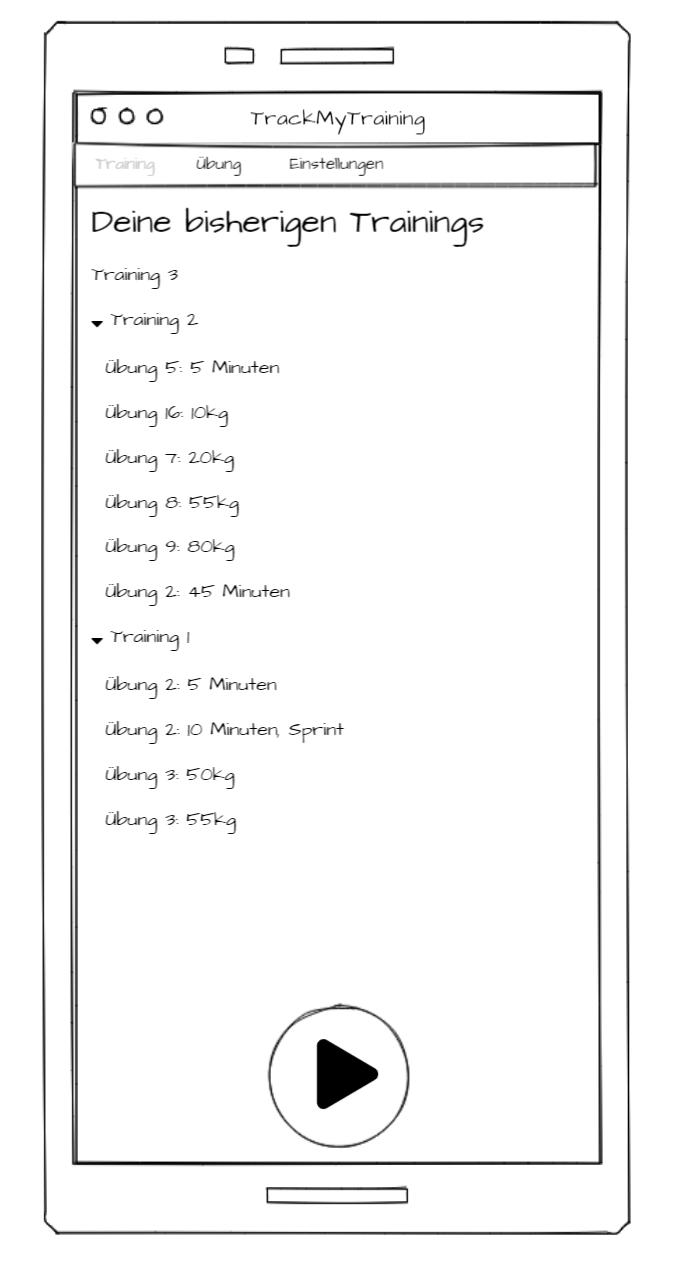
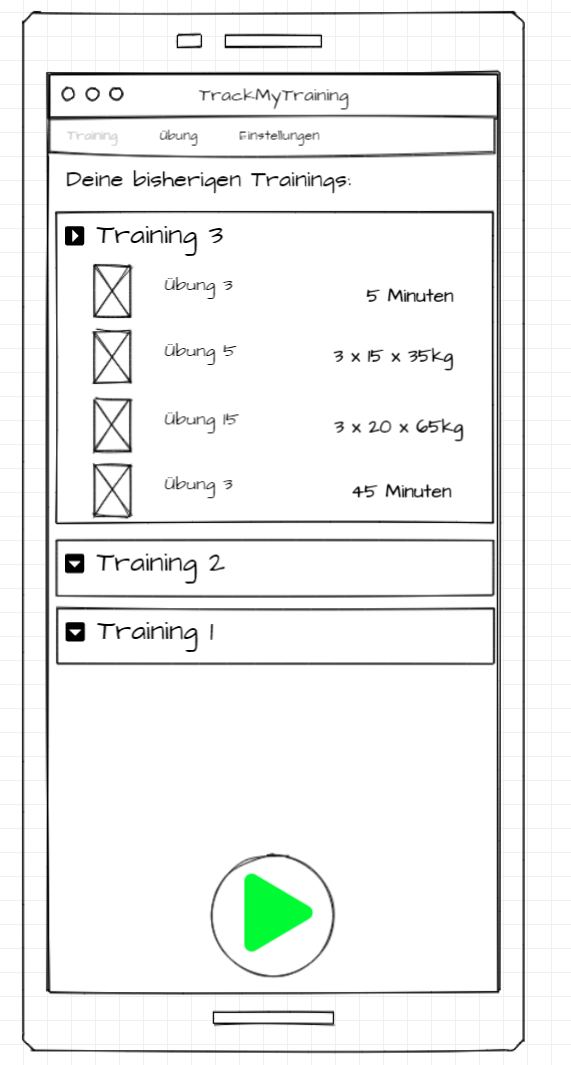
Wireframes Desktop erstellt. Änderungen am Design vom Trainingsbildschirm vorgenommen. Stärker ausformuliert. Grammatik und Satzbau drastisch korrigiert.
ORM SQL Tabellen hinzugefügt und SQL Statements eingefügt.

Unterschied zwischen Datenbank und Datenstrukturen!

Route "GET /users/:id" in "GET /login" umbenannt und abstrahiert ohne id, denn das kann man vorher ja gar nicht wissen.

Syntax im javascript ausgebessert. Es gibt kein long, sondern nur Number. (Doofes Überbleibsel von mir aus Java)

Routen für "alle Übungen oder Trainings" entfernt. Das widerspricht jeglicher Security, könnte aber praktisch sein für die ersten Versuche alles zum Laufen zu kriegen.

Aufwandsschätzung begonnen zu füllen mit passenden Beschreibungen.

diff --git a/README.md b/README.md
@@ -10,7 +10,7 @@ Philipp.Schmitt@hs-worms.de
 ---
 
 ## Abstract
-Entwicklung einer Plattform zur persönlichen Trainingsentwicklung
+Entwicklung einer Plattform zum Nachverfolgen der persönlichen Trainingsentwicklung
 
 ### Motivation
 Ich trainiere regelmäßig in einem Sportstudio und verfolge meinen persönlichen Trainingsfortschritt bisher - wie üblich - auf Papier in tabellarischer Form.
@@ -28,8 +28,6 @@ Dies möchte ich für mich (und für andere Nutzer) lösen, indem ich eine entsp
     - Übung zum Training hinzufügen.
     - Ergebnis zu einer Übung hinzufügen.
     - Ergebnis zu einer Übung bearbeiten.
-    - Ergebnis zu einer Übung löschen.
-    - Übung aus einem Training entfernen.
     - Training bearbeiten.
     - Training löschen.
     
@@ -40,37 +38,31 @@ Dies möchte ich für mich (und für andere Nutzer) lösen, indem ich eine entsp
     - Die Anwendung soll selbsterklärend sein.
  
 ## Client
-
 Die Anwendung besteht aus zwei essentiellen Teilen:
 1. Übungsverwaltung
 2. Trainingsverwaltung
 
 ### Übungsverwaltung
 Die Übungsverwaltung ist die Übersichtseite der Übungen. Übungen stellen den Hauptteil der Anwendung dar.
-Eine Übungsinstanz kann wie folgt aussehen:
-```javascript
-{
-  id: long,
-  name: String,
-  beschreibung: String
-}
-```
+Eine Übung besteht aus einem Namen und einer Beschreibung.
 Optional soll zu einer Übung zusätzlich ein Bild abgespeichert werden können.
 
-Die Übersichtsseite stellt eine Liste aller vom Nutzer hinzugefügten Übungen dar. Ein Button in der rechten unteren Ecke soll zum Hinzufügen von Übungen dienen.
+Die Übungsseite stellt eine Liste aller vom Nutzer hinzugefügten Übungen dar. Ein Button in der rechten unteren Ecke soll zum Hinzufügen von Übungen dienen.
 
 ### Trainingsverwaltung
 
-Die Trainingsverwaltung ist die Übersichtseite der abgeschlossenen Trainings. Hier können alte Trainingseinheiten nachgesehen werden.
-Dies erfolgt - wie die Übungsverwaltung - in Listenform.
+Die Trainingsverwaltung ist die Übersichtseite der abgeschlossenen Trainings. Hier können alle Trainingseinheiten nachgesehen werden.
+Dies soll in Listenform geschehen. Die einzelnen Trainings sind untereinander gelistet und können aufgeklappt werden, um zu sehen welche Übungen abgeschlossen wurden.
 Ein großer "Training starten"-Button startet ein neues Training.
-Einem Training kann nun nach und nach eine Übung aus einer Dropdownliste seiner bereits erstellten Übungen inklusive entsprechendem Trainingsergebnisse hinzugefügt werden.
-Das Training kann nach mindestens einem Trainingssatz einer einzelnen Übung mit dem Drücken eines "Training beenden" beendet werden und wird daraufhin abgespeichert.
+Einem Training kann nun nach und nach eine Übung aus seiner bereits erstellten Übungen inklusive entsprechendem Trainingsergebnisse hinzugefügt werden.
+Das Training kann nach mindestens einem Trainingssatz einer einzelnen Übung mit dem Drücken eines "Training beenden"-Buttons beendet werden und wird daraufhin abgespeichert.
 
-Ein Training besteht also aus einer Liste an Übungen mitsamt Ihren Ergebnissen. Ergebnisse sollen als Text eingegeben werden.
+Ein Training besteht also aus einer Liste an Trainingsübungen, Übungen mit einem Ergebnis. Ergebnisse sollen als Text eingegeben werden.
 
 ## Design
 Ich möchte das Projekt hübsch gestalten und mich mit den neuesten Gestaltungsmöglichkeiten und Komponenten der Webentwicklung auseinander setzen.
+Das Design soll mit modernen Mitteln Gestalten und dabei trotzdem möglichst schlicht bleiben, weshalb ich auf aufwändige Animationen verzichte.
+Die Anwendung soll selbsterklärend sein und der Nutzer soll die Möglichkeiten selbstständig erkunden, weshalb ich moderne Bausteine wie einen FloatingActionButton setzen möchte.
 
 https://material.io/develop/web/ bietet umfangreiche Komponenten für die Gestaltung moderner Nutzeroberflächen. Diese Plattform möchte ich nutzen, um moderne Webentwicklungskomponenten in mein Projekt einfließen zu lassen.
 
@@ -79,31 +71,30 @@ Eine Übung kann sehr schön mit sogenannten "Cards" dargestellt werden.
 
 Cards können in einem Grid gut angeordnet werden und eignen sich damit hervorragend zur Darstellung der Übungsverwaltung.
 
-Des Weiteren soll ein "FloatingActionButton" das zentrale funktionale Element der Anwendung sein. Er soll in der Übungsverwaltung dazu dienen eine Übung hinzuzufügen, während er in der Trainingsverwaltung dazu dienen soll ein neues Training zu starten.
-Hierfür möchte ich Icons aus der Font-Awesome-Familie nutzen:
+Des Weiteren soll ein "FloatingActionButton" das zentrale funktionale Element der Anwendung sein. Er soll in der Übungsverwaltung dazu dienen eine Übung hinzuzufügen, während er in der Trainingsverwaltung dazu dienen soll ein neues Training zu erstellen.
+Hierfür möchte ich Icons aus der Font-Awesome-Familie nutzen: [Font Awesome Icons](https://fontawesome.com/icons/)
 
-- [Font Awesome Icon Plus](https://fontawesome.com/icons/plus-circle?style=solid)
-- [Font Awesome Icon Play](https://fontawesome.com/icons/play-circle?style=solid)
+
 
 ## Mobil
 Die mobile Version startet mit dem Login-Bildschirm.
 
 ![TrackMyTraining Mobile Login](./wireframes/mobile/TrackMyTraining%20Login.PNG)
 
-Nach dem erfolgreichen Login gelangt man auf die Trainings-Übersichtsseite. Es werden die absolvierten Trainings dort angezeigt.
+Nach dem erfolgreichen Login gelangt man auf die Trainings-Übersichtsseite. Es werden dort die absolvierten Trainings angezeigt.
 
 ![TrackMyTraining Mobile Training](./wireframes/mobile/TrackMyTraining%20Training.PNG)
 
-Beim Klicken in der Navigation auf Übungen gelangt man in die Übungsübersicht. Hier werden alle Übungen in einem zweispaltigen Grid untereinander angezeigt.
+Beim Klicken auf "Übungen" in der Navigationsleiste gelangt man in die Übungsübersicht. Hier werden alle Übungen in einem zweispaltigen Grid untereinander angezeigt.
 Ein großer FloatingActionButton in der Mitte am unteren Ende des Screens dient zum Hinzufügen einer neuen Übung.
 
 ![TrackMyTraining Mobile Übung](./wireframes/mobile/TrackMyTraining%20Übungen.PNG)
 
-Nach Klick auf den FloatingActionButton gelangt man auf diesen Übung-Hinzufügen-Screen.
+Nach einem Klick auf den FloatingActionButton gelangt man auf diesen Übung-Hinzufügen-Screen.
 
 ![TrackMyTraining Mobile Übung Hinzufügen](./wireframes/mobile/TrackMyTraining%20Neue%20Übung.PNG)
 
-Hat man alle erwünschten Übungen in seinem Konto hinterlegt, so kann man nun ein Training starten.
+Hat man alle erwünschten Übungen erstellt, so kann man nun ein Training starten.
 Dazu klickt man auf dem Training-Bildschirm auf den großen FloatingActionButton mit dem "Start/Play"-Symbol und gelangt zum folgenden Screen:
 
 ![TrackMyTraining Mobile Training Hinzufügen Default](./wireframes/mobile/TrackMyTraining%20Neues%20Training%20Default.PNG)
@@ -116,12 +107,26 @@ Wenn man fertig mit dem Training ist, beendet man das Training durch Drücken de
 Daraufhin gelangt man wieder zum Trainings-Ausgangs-Bildschirm und das abgeschlossene Training wurde eingefügt.
 
 ## Desktop
+Die Desktop Version ist eine modifizierte und angepasste Mobile-Version.
 
+Die Elemente werden neu angeordnet, sodass sie auf dem größeren Bildschirm besser Platz finden.
 ### Login
+
+![TrackMyTraining Desktop Start / Login](./wireframes/desktop/TrackMyTraining%20Login.PNG)
 
 ### Training
 
+![TrackMyTraining Desktop Training](./wireframes/desktop/TrackMyTraining%20Training.PNG)
+
+![TrackMyTraining Desktop Training Hinzufügen Leer](./wireframes/desktop/TrackMyTraining%20Neues%20Training.PNG)
+
+![TrackMyTraining Desktop Training Hinzufügen Gefüllte Liste](./wireframes/desktop/TrackMyTraining%20Neues%20Training%20Liste.PNG)
+
 ### Übungen
+
+![TrackMyTraining Desktop Übungen](./wireframes/desktop/TrackMyTraining%20Übung.PNG)
+
+![TrackMyTraining Desktop Übung Hinzufügen](./wireframes/desktop/TrackMyTraining%20Neue%20Übung.PNG)
 
 ## Server
 
@@ -130,78 +135,104 @@ Hierzu definiere ich mir nach dem REST-API-Prinzip verschiedene Routen, welche d
 Die Daten bauen grundsätzlich aufeinander auf:
 
 Nutzer und Übungen stellen den Grundbaustein der Anwendung dar und sind miteinander verknüpft.
-Ein Training enthält eine Liste von Übungen, jeweils verknüpft mit einem Ergebnis.
+Ein Training enthält eine Liste von Trainingsübungen. Trainingsübungen sind Übungen mit einem Ergebnis und werden dargestellt durch die Referenz der Übungs-Id und einem Ergebnis.
 
-Zur Authentifizerung möchte ich [Passport.js](http://www.passportjs.org/) mit lokaler Strategy nutzen, d.h. eine Anmeldung findet mittels Nutzername und Passwort statt.
-Ich verzichte vorerst auf Salting und Hashing.
+Zur Authentifizerung möchte ich [Passport.js](http://www.passportjs.org/) mit lokaler Strategy nutzen inklusive Sessions, d.h. eine Anmeldung findet mittels Nutzername und Passwort statt und es wird ein Session Cookie erstellt, der mich die Authentifizierung für Anfragen checken lässt.
 
 ## ORM
 ![TrackMyTraining UML Diagramm](./orm/TrackMyTraining%20UML.PNG)
 
+Es werden folgende Tabellen benötigt, um das obige Diagramm darzustellen:
+1. Users
+```SQL
+CREATE TABLE IF NOT EXISTS users(
+    user_id INTEGER PRIMARY KEY AUTOINCREMENT,
+    name TEXT NOT NULL UNIQUE,
+    email TEXT NOT NULL UNIQUE,
+    password TEXT NOT NULL    
+);
+```
+2. Übungen
+```SQL
+CREATE TABLE IF NOT EXISTS übungen(
+    übung_id INTEGER PRIMARY KEY AUTOINCREMENT,
+    name TEXT NOT NULL,
+    beschreibung TEXT,
+    creator INTEGER,
+    FOREIGN KEY (creator) REFERENCES users (user_id) 
+);
+```
+3. Training
+```SQL
+CREATE TABLE IF NOT EXISTS training(
+    training_id INTEGER PRIMARY KEY AUTOINCREMENT,
+    user_id INTEGER,
+    FOREIGN KEY (user_id) REFERENCES users (user_id)  
+);
+```
+4. TrainingsÜbungen
+```SQL
+CREATE TABLE IF NOT EXISTS trainingsübungen(
+    training_id INTEGER,
+    übung_id INTEGER,
+    ergebnis TEXT,
+    PRIMARY KEY (training_id, übung_id),
+    FOREIGN KEY (training_id) REFERENCES training (training_id),
+    ON DELETE CASCADE ON UPDATE NO ACTION,
+    FOREIGN KEY (übung_id) REFERENCES übungen (übung_id) 
+    ON DELETE CASCADE ON UPDATE NO ACTION
+);
+```
 
 ## API-Beschreibung
+Alle Routen außer der Login-Route benötigen eine Authentifizierung, welche aber durch eben Jene erlangt werden kann.
 
-### `GET /users/:id`
+### `GET /login`
 **Get**
-liefert Nutzerobjekt anhand der Route zurück
-- **RESULT** `{id: long, name: String, email: String, password: String`
+Route nimmt Nutzerdaten entgegen und liefert Nutzerobjekt zurück, wenn die Daten korrekt sind
+- **INPUT**  `{name: String,password: String}`
+- **RESULT** `{id: Number, name: String, email: String, password: String}` + Session Cookie?!
 
 ### `POST /users`
 **Create** 
 Erstellt einen neuen Nutzer
 Route nimmt Nutzerdaten entgegen und liefert Nutzerobjekt mit id zurück
 - **INPUT**  `{name: String, email: String, password: String}`
-- **RESULT** `{id: long, name: String, email: String, password: String`
+- **RESULT** `{id: Number, name: String, email: String, password: String`
 
 ### `PUT /users/:id`
 **Update**
 Aktualisiert den Nutzer anhand der Route
 Route nimmt aktualisiertes Nutzerobjekt entgegen und liefert aktualisiertes Nutzerobjekt zurück
-- **INPUT**  `{id: long, name_new: String, email_new: String, password_new: String}`
-- **RESULT** `{id: long, name_new: String, email_new: String, password_new: String`
+- **INPUT**  `{id: Number, name_new: String, email_new: String, password_new: String}`
+- **RESULT** `{id: Number, name_new: String, email_new: String, password_new: String`
 
 ### `DELETE /users/:id`
 **Delete** 
 Löscht den Nutzer anhand der Route sowie alle mit ihm verknüpften Datensätze
 
-### `GET /übungen`
-**Get List**
-liefert Liste aller Übungen zurück
-- **RESULT** `{id: long, name: String, beschreibung: String},{id: long, name: String, beschreibung: String}, ...`
-
 ### `GET /übungen/:id`
 **Get**
 liefert Übungsobjekt anhand der Route zurück
-- **RESULT** `{id: long, name: String, beschreibung: String}`
+- **RESULT** `{id: Number, name: String, beschreibung: String}`
 
 ### `POST /übungen`
 **Create** 
 Erstellt eine neue Übung.
 Route nimmt Übungsdaten entgegen und liefert Übungsobjekt mit id zurück
 - **INPUT**  `{name: String, beschreibung: String}`
-- **RESULT** `{id: long, name: String, beschreibung: String`
+- **RESULT** `{id: Number, name: String, beschreibung: String}`
 
 ### `DELETE /übungen/:id`
 **Delete**
 Löscht die Übung anhand der Route
 
-### `GET /training`
-**Get List**
-liefert Liste aller Trainings zurück
-
 ### `POST /training`
 **Create**
 Erstellt ein neues Training
 liefert Trainingsobjekt zurück
-- **INPUT**  `{[{übung_id: long, ergebnis: String},{übung_id: long, ergebnis: String},...]}`
-- **RESULT** `{training_id: long, übungen: [{übung_id: long, ergebnis: String},{übung_id : long, ergebnis: String},...]`
-
-### `PUT /training/:id`
-**Update**
-aktualisiert ein Training anhand der Route
-Route nimmt aktualisierte Trainingsdaten entgegen und liefert aktualisiertes Trainingsobjekt zurück
-- **INPUT** `{training_id: long, übungen: [{übung_id_new: long, ergebnis_new: String},{übung_id_old : long, ergebnis_new: String},...]}`
-- **RESULT** `{training_id: long, übungen: [{übung_id_new: long, ergebnis_new: String},{übung_id_old : long, ergebnis_new: String},...]}`
+- **INPUT**  `{[{übung_id: Number, ergebnis: String},{übung_id: Number, ergebnis: String},...]}`
+- **RESULT** `{training_id: Number, übungen: [{übung_id: Number, ergebnis: String},{übung_id : Number, ergebnis: String},...]`
 
 ### `GET /übungen?user_id=x`
 **Get List**
@@ -234,7 +265,7 @@ liefert Liste an Trainings, die vom Nutzer mit der id x erstellt wurden
 ### User
 ```javascript
 {
-    id: long,
+    id: Number,
     name: String,
     email: String,
     password: String
@@ -244,23 +275,32 @@ liefert Liste an Trainings, die vom Nutzer mit der id x erstellt wurden
 ### Übung
 ```javascript
 {
-    id: long,
+    id: Number,
     name: String,
     beschreibung: String
+}
+```
+
+### Trainingsübungen
+
+```javascript
+{
+    übung_id: Number,
+    ergebnis: String
 }
 ```
 
 ### Training
 ```javascript
 {
-    id: long,
+    id: Number,
     übungen: {
         {
-            übung_id: long,
+            übung_id: Number,
             ergebnis: String
         },
         {
-            übung_id: long,
+            übung_id: Number,
             ergebnis: String
         },
         ...
@@ -281,26 +321,39 @@ liefert Liste an Trainings, die vom Nutzer mit der id x erstellt wurden
 | Client            |    0,5        |
 | Design inklusive Recherche auf Material.io                     |    1        |
 | WireFrames Mobile erstellt und WorkFlow / Funktionen beschrieben         |     5       |
-| Wireframes Desktop erstellt und WorkFlow / Funktionen beschrieben                       |            |
+| Wireframes Desktop erstellt und WorkFlow / Funktionen beschrieben                       |       4    |
 | Backend Endpunkte / API - Beschreibung / Daten   | 4          |
-| ORM                                      |     1       |
-| Verfassen des Projektvorschlags          |            |
-| **Summe**                                |  **13,5**    |
+| ORM                                      |     2       |
+| Verfassen des Projektvorschlags          |      3      |
+| **Summe**                                |  ****    |
 
 ### Client
 #### Implementierung
 
 | Aufgabe                                  | Zeit in Std |
 |------------------------------------------|------------:|
-| HTML-Grundgerüst Lorem                   |            |
-| HTML-Grundgerüst Lorem2                  |            |
-| HTML-Grundgerüst Lorem3                  |            |
+| HTML-Grundgerüst Allgemein               |             |
+| HTML-Grundgerüst Training                |            |
+| HTML-Grundgerüst Training hinzufügen             |            |
+| HTML-Grundgerüst Übungen              |            |
+| HTML-Grundgerüst Übung hinzufügen              |            |
+| HTML-Grundgerüst Einstellungen             |            |
 | SCSS-Styling Breakpoint small            |            |
 | SCSS-Styling Breakpoint medium           |            |
 | SCSS-Styling Breakpoint large            |            |
-| Implementierung Funktion Lorem           |            |
-| Implementierung Funktion Lorem2          |            |
-| Implementierung Funktion Lorem3          |            |
+| Implementierung JS Navigation           |            |
+| Implementierung JS Login              |             |
+| Implementierung JS Login - Fehlerbehandlung             |             |
+| Implementierung JS Klassen mit TS            |             |
+| Implementierung JS Init Trainings              |             |
+| Implementierung JS Init Übungen              |             |
+| Implementierung JS Bilder            |             |
+| Implementierung JS Übung hinzufügen           |             |
+| Implementierung JS Training hinzufügen           |             |
+| Implementierung JS Trainings           |             |
+| Implementierung JS Übungen           |             |
+| Implementierung JS Übung löschen           |             |
+| Implementierung JS Übung bearbeiten          |             |
 | ...                                      |  ...        |
 | **Summe**                                |  **...**    |
 
@@ -332,10 +385,10 @@ liefert Liste an Trainings, die vom Nutzer mit der id x erstellt wurden
 | Setup Framework                          |             |
 | - Framework express                      |         |
 | - Framework jest                         |          |
-| - Framework ...                          |         |
-| DB ...                                   |            |
+| - Framework passport                          |         |
+| DB SQLITE3                                 |            |
 | - Setup                                  |            |
-| Implementierung Auth                     |            |
+| Implementierung Auth                     |      ?      |
 | Implementierung Lorem-Route              |            |
 | Implementierung Lorem2-Route             |            |
 | Implementierung Lorem3-Route             |            |
